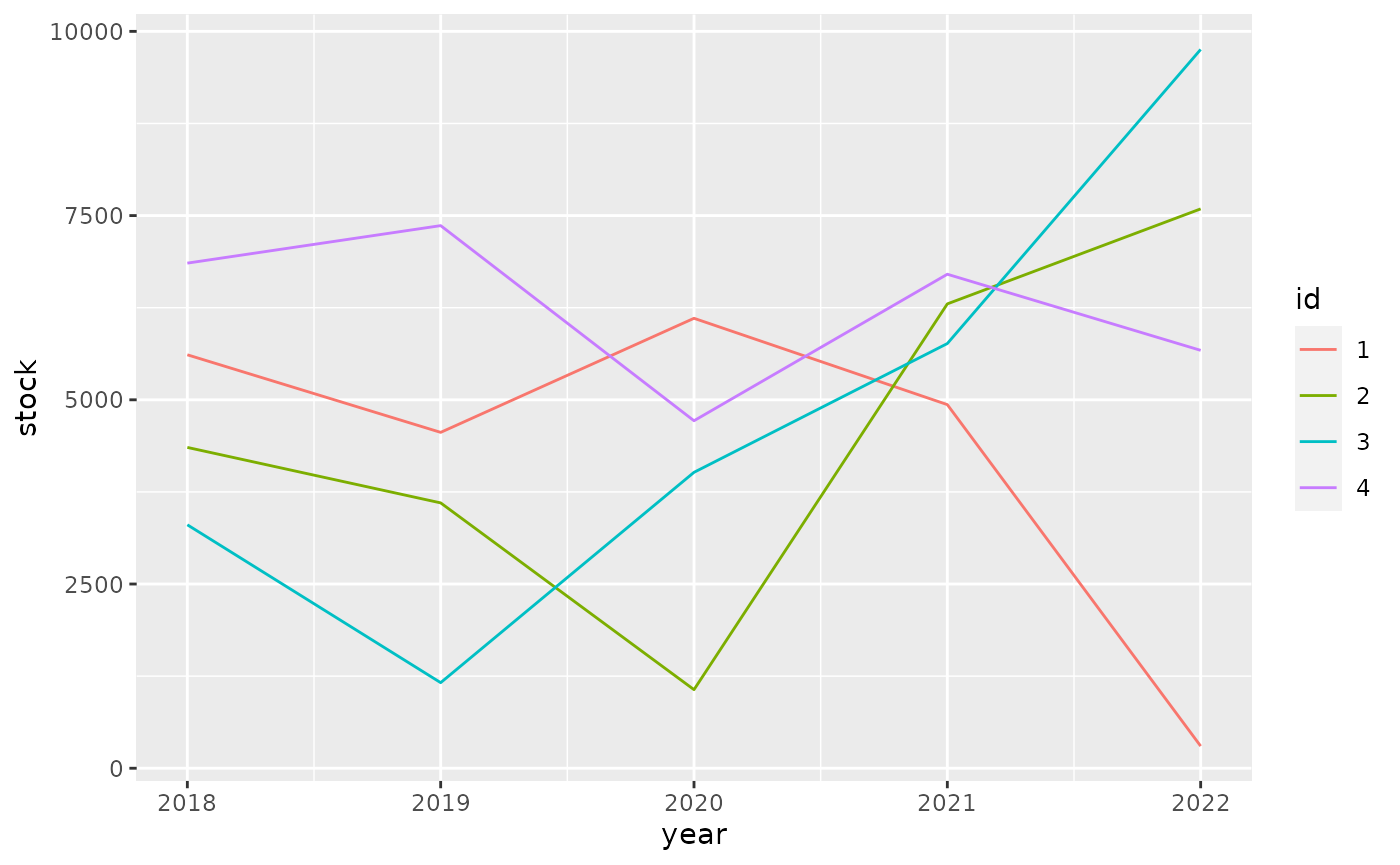
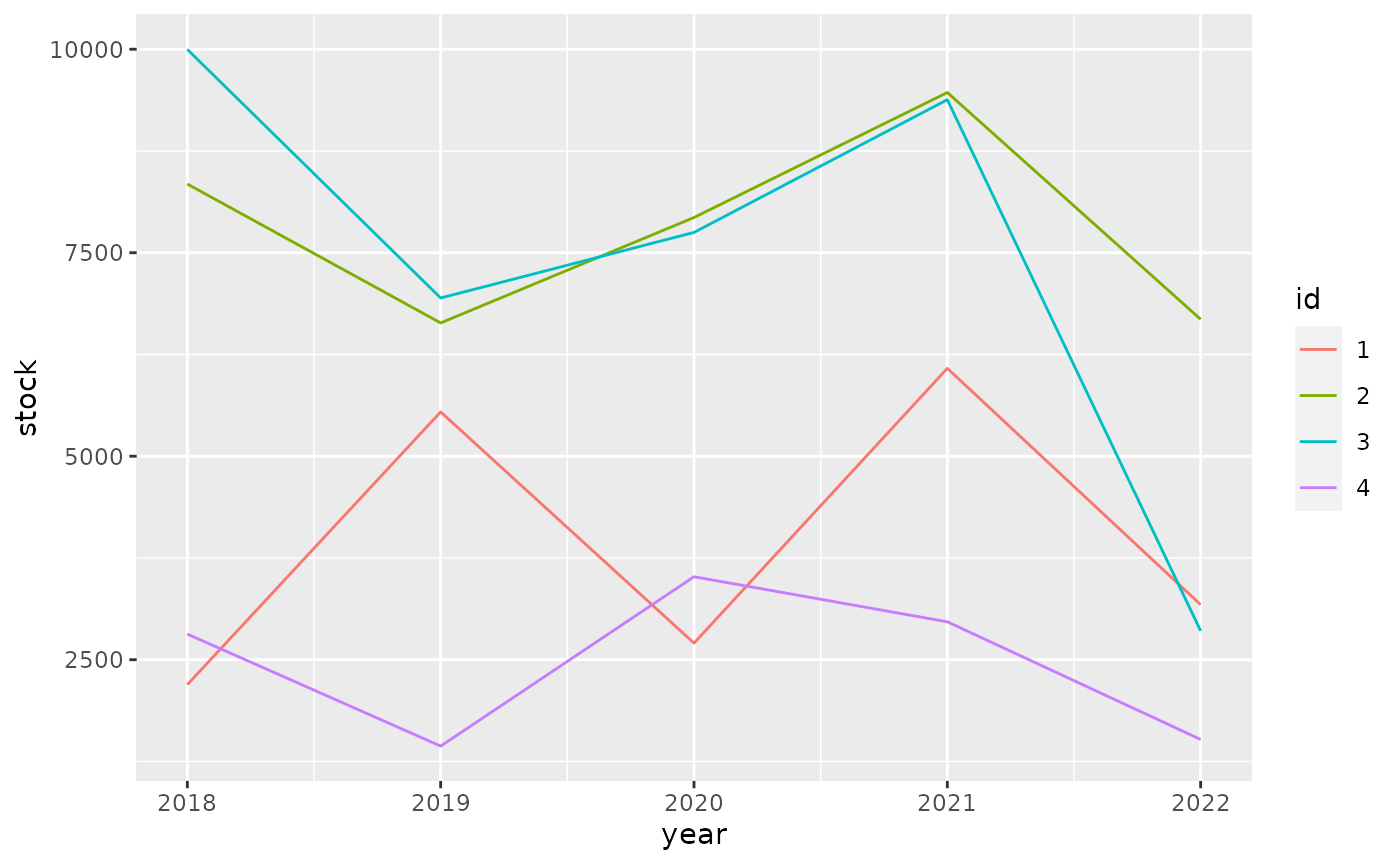
Built site for tibble: 3.1.0.9000@56e4135

diff --git a/dev/articles/formats.html b/dev/articles/formats.html
@@ -55,7 +55,7 @@
         <a class="navbar-brand" href="../index.html">tibble</a>
         <div class="info hidden-xs hidden-sm">
           <span class="partof">part of the <a href="https://tidyverse.org" class="external-link">tidyverse</a></span>
-          <span class="version version-danger" data-toggle="tooltip" data-placement="bottom" title="In-development version">3.0.6.9001</span>
+          <span class="version version-danger" data-toggle="tooltip" data-placement="bottom" title="In-development version">3.1.0.9000</span>
         </div>
       </div>
     </div>
@@ -221,10 +221,10 @@
 <span class="co">#&gt; # A tibble: 4 x 6</span>
 <span class="co">#&gt;   id       `2018`    `2019`    `2020`    `2021`    `2022`</span>
 <span class="co">#&gt;   &lt;fct&gt; &lt;dbl:fmt&gt; &lt;dbl:fmt&gt; &lt;dbl:fmt&gt; &lt;dbl:fmt&gt; &lt;dbl:fmt&gt;</span>
-<span class="co">#&gt; 1 1     $5,610.80 $4,558.05 $6,106.12 $4,934.58   $300.51</span>
-<span class="co">#&gt; 2 2     $4,353.87 $3,600.98 $1,066.61 $6,301.62 $7,590.86</span>
-<span class="co">#&gt; 3 3     $3,303.83 $1,161.42 $4,015.76 $5,763.47 $9,754.64</span>
-<span class="co">#&gt; 4 4     $6,854.80 $7,363.70 $4,715.85 $6,704.04 $5,671.24</span></code></pre></div>
+<span class="co">#&gt; 1 1     $2,193.48 $5,543.97 $2,703.62 $6,079.12 $3,175.94</span>
+<span class="co">#&gt; 2 2     $8,343.79 $6,637.45 $7,932.60 $9,468.14 $6,682.13</span>
+<span class="co">#&gt; 3 3     $9,997.32 $6,943.81 $7,749.19 $9,379.91 $2,853.87</span>
+<span class="co">#&gt; 4 4     $2,814.44 $1,438.53 $3,519.15 $2,965.71 $1,519.78</span></code></pre></div>
 <p>For ggplot2 we need to do <a href="https://github.com/tidyverse/ggplot2/pull/4065" class="external-link">some work</a> to show apply the formatting to the scales.</p>
 <div class="sourceCode" id="cb6"><pre class="downlit sourceCode r">
 <code class="sourceCode R"><span class="kw"><a href="https://rdrr.io/r/base/library.html" class="external-link">library</a></span><span class="op">(</span><span class="va"><a href="https://ggplot2.tidyverse.org" class="external-link">ggplot2</a></span><span class="op">)</span>
@@ -235,10 +235,10 @@
   <span class="fu"><a href="https://ggplot2.tidyverse.org/reference/geom_path.html" class="external-link">geom_line</a></span><span class="op">(</span><span class="op">)</span></code></pre></div>
 <p><img src="formats_files/figure-html/unnamed-chunk-7-1.png" width="700"></p>
 <p>It pays off to specify formatting very early in the process. The diagram below shows the principal stages of data analysis and exploration from “R for data science”.</p>
-<div id="htmlwidget-629126960bbbc3bce147" style="width:700px;height:432.632880098888px;" class="DiagrammeR html-widget"></div>
-<script type="application/json" data-for="htmlwidget-629126960bbbc3bce147">{"x":{"diagram":"graph TD\n  Import --> Tidy\n  Tidy --> Transform\n  Transform --> Visualize\n  Visualize --> Communicate\n  Visualize --> Model\n  Model -.-> Transform"},"evals":[],"jsHooks":[]}</script><p>The subsequent diagram adds data formats, communication options, and explicit data formatting. The original r4ds transitions are highlighted in bold. There are two principal options where to apply formatting for results: right before communicating them, or right after importing.</p>
-<div id="htmlwidget-76dcb38f608b69bcbc15" style="width:700px;height:432.632880098888px;" class="DiagrammeR html-widget"></div>
-<script type="application/json" data-for="htmlwidget-76dcb38f608b69bcbc15">{"x":{"diagram":"graph TD\n  .csv --> Import\n  API --> Import\n  DBI --> Import\n  dbplyr --> Import\n  Import -.-> Format[Format for analysis]\n  Format -.-> Tidy\n\n  subgraph r4ds\n  Import ==> Tidy\n  Tidy ==> Transform\n  Transform ==> Visualize\n  Visualize ==> Model\n  Model -.-> Transform\n  Visualize ==> Communicate\n  end\n\n  Visualize -.-> FormatComm[Format for communication]\n  FormatComm -.-> Communicate\n\n  FormatComm -- Apply formatting early --> Format\n\n  dbplyr -.-> Tidy\n  dbplyr -.-> Transform\n  dbplyr -.-> Visualize\n\n  Communicate --> gt\n  Communicate --> ggplot2\n  Communicate --> DT\n  Communicate --> plotly"},"evals":[],"jsHooks":[]}</script><p>Applying formatting early in the process gives the added benefit of showing the data in a useful format during the “Tidy”, “Transform”, and “Visualize” stages. For this to be useful, we need to ensure that the formatting options applied early:</p>
+<div id="htmlwidget-e0a261de98c3db73ab43" style="width:700px;height:432.632880098888px;" class="DiagrammeR html-widget"></div>
+<script type="application/json" data-for="htmlwidget-e0a261de98c3db73ab43">{"x":{"diagram":"graph TD\n  Import --> Tidy\n  Tidy --> Transform\n  Transform --> Visualize\n  Visualize --> Communicate\n  Visualize --> Model\n  Model -.-> Transform"},"evals":[],"jsHooks":[]}</script><p>The subsequent diagram adds data formats, communication options, and explicit data formatting. The original r4ds transitions are highlighted in bold. There are two principal options where to apply formatting for results: right before communicating them, or right after importing.</p>
+<div id="htmlwidget-5366e65381b4b7fdedae" style="width:700px;height:432.632880098888px;" class="DiagrammeR html-widget"></div>
+<script type="application/json" data-for="htmlwidget-5366e65381b4b7fdedae">{"x":{"diagram":"graph TD\n  .csv --> Import\n  API --> Import\n  DBI --> Import\n  dbplyr --> Import\n  Import -.-> Format[Format for analysis]\n  Format -.-> Tidy\n\n  subgraph r4ds\n  Import ==> Tidy\n  Tidy ==> Transform\n  Transform ==> Visualize\n  Visualize ==> Model\n  Model -.-> Transform\n  Visualize ==> Communicate\n  end\n\n  Visualize -.-> FormatComm[Format for communication]\n  FormatComm -.-> Communicate\n\n  FormatComm -- Apply formatting early --> Format\n\n  dbplyr -.-> Tidy\n  dbplyr -.-> Transform\n  dbplyr -.-> Visualize\n\n  Communicate --> gt\n  Communicate --> ggplot2\n  Communicate --> DT\n  Communicate --> plotly"},"evals":[],"jsHooks":[]}</script><p>Applying formatting early in the process gives the added benefit of showing the data in a useful format during the “Tidy”, “Transform”, and “Visualize” stages. For this to be useful, we need to ensure that the formatting options applied early:</p>
 <ul>
 <li>give a good user experience for analysis
 <ul>

diff --git a/dev/news/index.html b/dev/news/index.html
@@ -106,7 +106,7 @@
         <a class="navbar-brand" href="../index.html">tibble</a>
         <div class="info hidden-xs hidden-sm">
           <span class="partof">part of the <a href="https://tidyverse.org">tidyverse</a></span>
-          <span class="version version-danger" data-toggle="tooltip" data-placement="bottom" title="In-development version">3.0.6.9001</span>
+          <span class="version version-danger" data-toggle="tooltip" data-placement="bottom" title="In-development version">3.1.0.9000</span>
         </div>
       </div>
     </div>
@@ -193,6 +193,35 @@
       <small>Source: <a href='https://github.com/tidyverse/tibble/blob/master/NEWS.md'><code>NEWS.md</code></a></small>
     </div>
 
+    <div id="tibble-3109000" class="section level1">
+<h1 class="page-header" data-toc-text="3.1.0.9000">
+<a href="#tibble-3109000" class="anchor"></a>tibble 3.1.0.9000<small> Unreleased </small>
+</h1>
+<ul>
+<li>Internal changes only.</li>
+</ul>
+</div>
+    <div id="tibble-310" class="section level1">
+<h1 class="page-header" data-toc-text="3.1.0">
+<a href="#tibble-310" class="anchor"></a>tibble 3.1.0<small> Unreleased </small>
+</h1>
+<ul>
+<li>Same as previous version.</li>
+</ul>
+</div>
+    <div id="tibble-3069002" class="section level1">
+<h1 class="page-header" data-toc-text="3.0.6.9002">
+<a href="#tibble-3069002" class="anchor"></a>tibble 3.0.6.9002<small> Unreleased </small>
+</h1>
+<ul>
+<li>cli and crayon are now suggested packages (<a href='https://github.com/tidyverse/tibble/issues/475'>#475</a>).</li>
+<li>
+<code><a href="../reference/rownames.html">has_rownames()</a></code> now works correctly for data frames with a <code>"row.names"</code> attribute malformed due to a problem in <code><a href="https://rdrr.io/r/base/structure.html" class="external-link">structure()</a></code> (<a href='https://github.com/tidyverse/tibble/issues/852'>#852</a>).</li>
+<li>Remove compatibility code for pillar &lt; 1.5.0 (<a href='https://github.com/tidyverse/tibble/issues/861'>#861</a>).</li>
+<li>Moved most functions to the “stable” lifecycle (<a href='https://github.com/tidyverse/tibble/issues/860'>#860</a>).</li>
+<li>Reexport <code><a href="https://pillar.r-lib.org//reference/type_sum.html" class="external-link">size_sum()</a></code> (<a href='https://github.com/tidyverse/tibble/issues/850'>#850</a>, <a href='https://github.com/topepo'>@topepo</a>).</li>
+</ul>
+</div>
     <div id="tibble-3069001" class="section level1">
 <h1 class="page-header" data-toc-text="3.0.6.9001">
 <a href="#tibble-3069001" class="anchor"></a>tibble 3.0.6.9001<small> Unreleased </small>

diff --git a/dev/articles/types.html b/dev/articles/types.html
@@ -55,7 +55,7 @@
         <a class="navbar-brand" href="../index.html">tibble</a>
         <div class="info hidden-xs hidden-sm">
           <span class="partof">part of the <a href="https://tidyverse.org" class="external-link">tidyverse</a></span>
-          <span class="version version-danger" data-toggle="tooltip" data-placement="bottom" title="In-development version">3.0.6.9001</span>
+          <span class="version version-danger" data-toggle="tooltip" data-placement="bottom" title="In-development version">3.1.0.9000</span>
         </div>
       </div>
     </div>
@@ -352,7 +352,7 @@
 #&gt; $ factor        &lt;fct&gt; A
 #&gt; $ ordered       &lt;ord&gt; a
 #&gt; $ Date          &lt;date&gt; 2021-02-23
-#&gt; $ POSIXt        &lt;dttm&gt; 2021-02-23 08:43:17
+#&gt; $ POSIXt        &lt;dttm&gt; 2021-02-23 08:48:58
 #&gt; $ difftime      &lt;drtn&gt; 1 secs
 #&gt; $ hms           &lt;time&gt; 00:00:01
 #&gt; $ integer64     &lt;int64&gt; 10000000000
@@ -382,7 +382,7 @@
 <span class="co">#&gt;             "sym"</span>
 <span class="co">#&gt;         }, typeof(x))</span>
 <span class="co">#&gt; }</span>
-<span class="co">#&gt; &lt;bytecode: 0x5557fda4d858&gt;</span>
+<span class="co">#&gt; &lt;bytecode: 0x55e97c2cff20&gt;</span>
 <span class="co">#&gt; &lt;environment: namespace:pillar&gt;</span></code></pre></div>
 </div>
   </div>

diff --git a/dev/reference/formatting.html b/dev/reference/formatting.html
@@ -120,7 +120,7 @@ See vignette(&quot;extending&quot;, package = &quot;pillar&quot;) for details." 
         <a class="navbar-brand" href="../index.html">tibble</a>
         <div class="info hidden-xs hidden-sm">
           <span class="partof">part of the <a href="https://tidyverse.org">tidyverse</a></span>
-          <span class="version version-danger" data-toggle="tooltip" data-placement="bottom" title="In-development version">3.0.6.9001</span>
+          <span class="version version-danger" data-toggle="tooltip" data-placement="bottom" title="In-development version">3.1.0.9000</span>
         </div>
       </div>
     </div>

diff --git a/dev/reference/trunc_mat.html b/dev/reference/trunc_mat.html
@@ -112,7 +112,7 @@ See vignette(&quot;extending&quot;, package = &quot;pillar&quot;) for details." 
         <a class="navbar-brand" href="../index.html">tibble</a>
         <div class="info hidden-xs hidden-sm">
           <span class="partof">part of the <a href="https://tidyverse.org">tidyverse</a></span>
-          <span class="version version-danger" data-toggle="tooltip" data-placement="bottom" title="In-development version">3.0.6.9001</span>
+          <span class="version version-danger" data-toggle="tooltip" data-placement="bottom" title="In-development version">3.1.0.9000</span>
         </div>
       </div>
     </div>

diff --git a/dev/reference/name-repair-superseded.html b/dev/reference/name-repair-superseded.html
@@ -113,7 +113,7 @@ See vctrs::vec_as_names() for the implementation of the underlying logic." />
         <a class="navbar-brand" href="../index.html">tibble</a>
         <div class="info hidden-xs hidden-sm">
           <span class="partof">part of the <a href="https://tidyverse.org">tidyverse</a></span>
-          <span class="version version-danger" data-toggle="tooltip" data-placement="bottom" title="In-development version">3.0.6.9001</span>
+          <span class="version version-danger" data-toggle="tooltip" data-placement="bottom" title="In-development version">3.1.0.9000</span>
         </div>
       </div>
     </div>

diff --git a/dev/reference/tribble.html b/dev/reference/tribble.html
@@ -109,7 +109,7 @@ important.  Please see tibble-package for a general introduction." />
         <a class="navbar-brand" href="../index.html">tibble</a>
         <div class="info hidden-xs hidden-sm">
           <span class="partof">part of the <a href="https://tidyverse.org">tidyverse</a></span>
-          <span class="version version-danger" data-toggle="tooltip" data-placement="bottom" title="In-development version">3.0.6.9001</span>
+          <span class="version version-danger" data-toggle="tooltip" data-placement="bottom" title="In-development version">3.1.0.9000</span>
         </div>
       </div>
     </div>

diff --git a/dev/reference/enframe.html b/dev/reference/enframe.html
@@ -113,7 +113,7 @@ If the input has only one column, an unnamed vector is returned." />
         <a class="navbar-brand" href="../index.html">tibble</a>
         <div class="info hidden-xs hidden-sm">
           <span class="partof">part of the <a href="https://tidyverse.org">tidyverse</a></span>
-          <span class="version version-danger" data-toggle="tooltip" data-placement="bottom" title="In-development version">3.0.6.9001</span>
+          <span class="version version-danger" data-toggle="tooltip" data-placement="bottom" title="In-development version">3.1.0.9000</span>
         </div>
       </div>
     </div>

diff --git a/dev/reference/subsetting.html b/dev/reference/subsetting.html
@@ -126,7 +126,7 @@ data frame behavior, coerce to a data frame via as.data.frame()." />
         <a class="navbar-brand" href="../index.html">tibble</a>
         <div class="info hidden-xs hidden-sm">
           <span class="partof">part of the <a href="https://tidyverse.org">tidyverse</a></span>
-          <span class="version version-danger" data-toggle="tooltip" data-placement="bottom" title="In-development version">3.0.6.9001</span>
+          <span class="version version-danger" data-toggle="tooltip" data-placement="bottom" title="In-development version">3.1.0.9000</span>
         </div>
       </div>
     </div>

diff --git a/dev/reference/is_tibble.html b/dev/reference/is_tibble.html
@@ -108,7 +108,7 @@ and FALSE for all other objects, including regular data frames." />
         <a class="navbar-brand" href="../index.html">tibble</a>
         <div class="info hidden-xs hidden-sm">
           <span class="partof">part of the <a href="https://tidyverse.org">tidyverse</a></span>
-          <span class="version version-danger" data-toggle="tooltip" data-placement="bottom" title="In-development version">3.0.6.9001</span>
+          <span class="version version-danger" data-toggle="tooltip" data-placement="bottom" title="In-development version">3.1.0.9000</span>
         </div>
       </div>
     </div>

diff --git a/dev/reference/as_tibble.html b/dev/reference/as_tibble.html
@@ -124,7 +124,7 @@ as_tibble_col() converts a vector to a tibble with one column." />
         <a class="navbar-brand" href="../index.html">tibble</a>
         <div class="info hidden-xs hidden-sm">
           <span class="partof">part of the <a href="https://tidyverse.org">tidyverse</a></span>
-          <span class="version version-danger" data-toggle="tooltip" data-placement="bottom" title="In-development version">3.0.6.9001</span>
+          <span class="version version-danger" data-toggle="tooltip" data-placement="bottom" title="In-development version">3.1.0.9000</span>
         </div>
       </div>
     </div>

diff --git a/dev/reference/view.html b/dev/reference/view.html
@@ -112,7 +112,7 @@ This function has no effect in noninteractive sessions." />
         <a class="navbar-brand" href="../index.html">tibble</a>
         <div class="info hidden-xs hidden-sm">
           <span class="partof">part of the <a href="https://tidyverse.org">tidyverse</a></span>
-          <span class="version version-danger" data-toggle="tooltip" data-placement="bottom" title="In-development version">3.0.6.9001</span>
+          <span class="version version-danger" data-toggle="tooltip" data-placement="bottom" title="In-development version">3.1.0.9000</span>
         </div>
       </div>
     </div>
